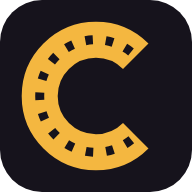
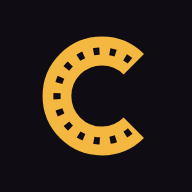
fix(launch): seamless Android launch, no splash on reload, no pull-to-refresh
- App icons are full-bleed squares on the manifest background color, so
  launchers apply their own shape (no light edge from a pre-rounded icon)
  and Android's launch screen shows the mark alone on a uniform background
- The splash starts from that exact picture (assets/mark.svg)
- overscroll-behavior disables Chrome's pull-to-refresh
- A reload within the same session skips the splash

diff --git a/css/app.css b/css/app.css
@@ -59,7 +59,11 @@
 *, *::before, *::after { box-sizing: border-box; }
 [hidden] { display: none !important; }
 
+/* overscroll-behavior: no pull-to-refresh in Chrome (it reloaded the app and replayed the splash). */
+html, body { overscroll-behavior-y: none; }
 html { -webkit-text-size-adjust: 100%; }
+/* Reload within the same session (update, manual refresh): no splash, see boot.js. */
+.no-splash .splash { display: none; }
 
 body {
   margin: 0;
@@ -127,7 +131,7 @@ body[data-route="settings"] #settings-btn { color: var(--accent); }
   position: fixed; inset: auto 0 0 0; z-index: 10;
   height: calc(var(--tabbar-h) + env(safe-area-inset-bottom));
   padding-bottom: env(safe-area-inset-bottom);
-  display: grid; grid-template-columns: repeat(3, 1fr);
+  display: grid; grid-template-columns: repeat(4, 1fr);
   background: color-mix(in srgb, var(--surface) 92%, transparent);
   backdrop-filter: blur(12px);
   -webkit-backdrop-filter: blur(12px);
@@ -572,17 +576,19 @@ body:has(.actions) .toasts { bottom: calc(var(--tabbar-h) + env(safe-area-inset-
   animation: splash-bg 1.2s ease forwards;
 }
 .splash-inner {
-  display: flex; flex-direction: column; align-items: center; gap: 18px;
+  display: flex; flex-direction: column; align-items: center;
   animation: splash-exit 1.2s cubic-bezier(.65, 0, .35, 1) forwards;
 }
 .splash-inner img { animation: splash-logo 1.2s ease forwards; }
 .splash-inner span {
+  margin-top: -12px;
   font-size: 2.6rem; line-height: 1.5; font-weight: 800; letter-spacing: -.02em; color: var(--text);
   animation: splash-title 1.2s ease forwards;
 }
-/* Logo starts centered on screen (half of title height + gap lower), then makes room for the title. */
+/* Logo starts centered on screen (half the title height lower), then makes room for the title.
+   The mark's own padding (same framing as the app icon) spaces it from the title. */
 @keyframes splash-logo {
-  0% { transform: translateY(40px); }
+  0% { transform: translateY(25px); }
   28%, 100% { transform: none; }
 }
 @keyframes splash-title {

diff --git a/js/boot.js b/js/boot.js
@@ -8,6 +8,11 @@
     theme = localStorage.getItem('cinedex.theme') || theme;
     lang = localStorage.getItem('cinedex.lang') || lang;
   } catch (e) { /* storage blocked: keep defaults */ }
+  // The splash is for cold starts only: sessionStorage survives reloads, not a fresh launch.
+  try {
+    if (sessionStorage.getItem('cinedex.started')) document.documentElement.classList.add('no-splash');
+    sessionStorage.setItem('cinedex.started', '1');
+  } catch (e) { /* storage blocked: splash every time */ }
   document.documentElement.dataset.theme = theme;
   document.documentElement.lang = lang;
 })();

diff --git a/sw.js b/sw.js
@@ -2,7 +2,7 @@
 // TMDB requests (api/image) are never cached here: posters live in IndexedDB.
 // Bump CACHE_VERSION (and APP_VERSION in js/version.js) whenever a shell file changes.
 
-const CACHE_VERSION = 'v1.1.2';
+const CACHE_VERSION = 'v1.2.0';
 const CACHE = `cinedex-shell-${CACHE_VERSION}`;
 
 const SHELL = [
@@ -32,7 +32,9 @@ const SHELL = [
   './js/views/settings.js',
   './js/views/sheet.js',
   './js/views/stats.js',
+  './js/views/watchlist.js',
   './assets/logo.svg',
+  './assets/mark.svg',
   './assets/tmdb.svg',
   './icons/favicon.svg',
   './icons/icon-192.png',

diff --git a/js/version.js b/js/version.js
@@ -1,2 +1,2 @@
 // Bump together with CACHE_VERSION in sw.js on each release.
-export const APP_VERSION = '1.1.2';
+export const APP_VERSION = '1.2.0';
